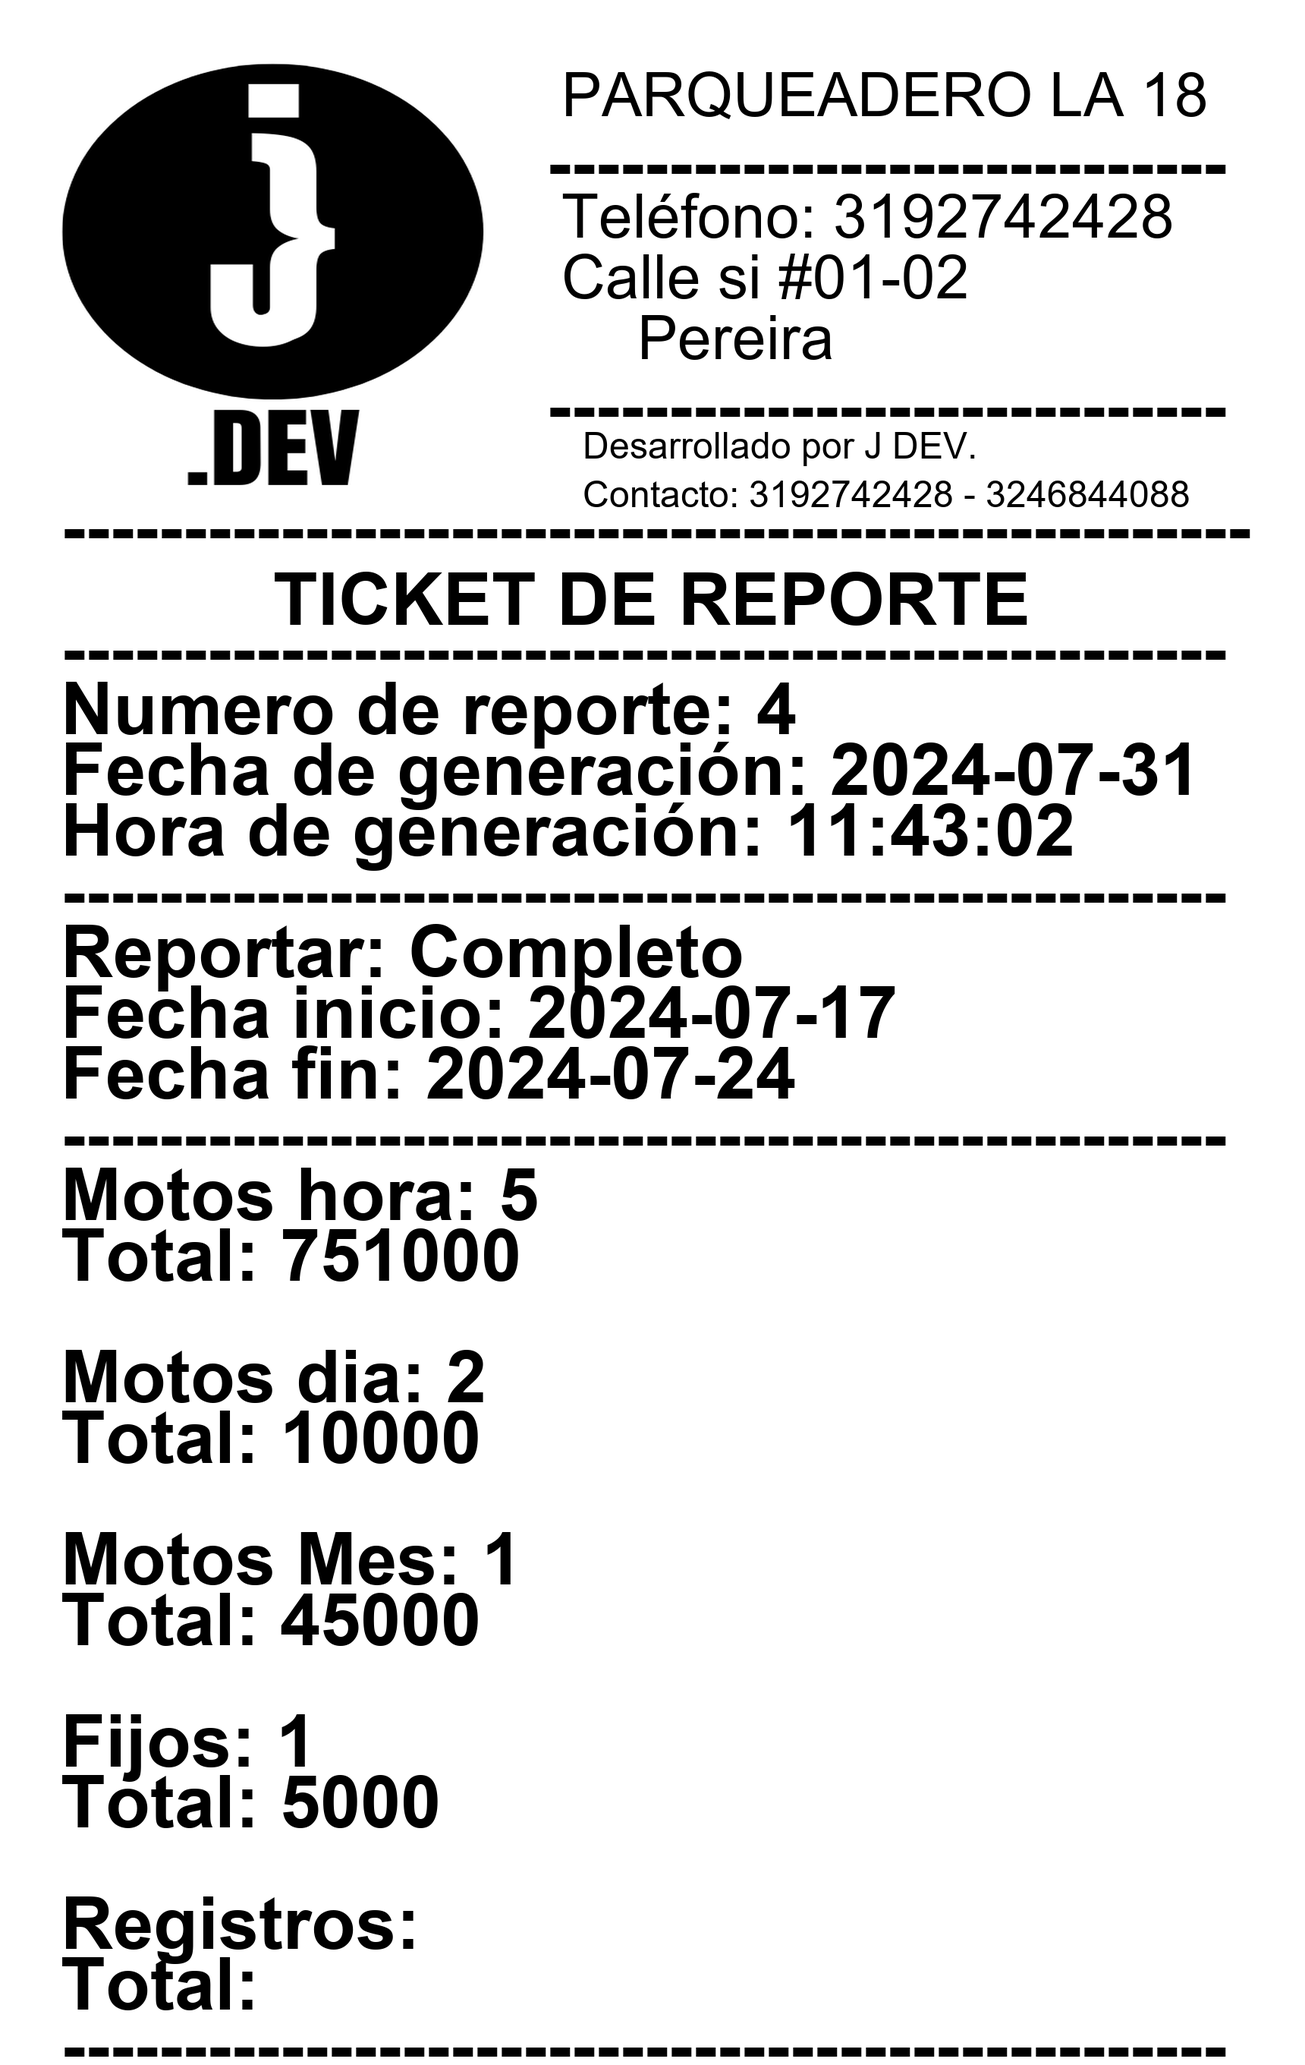
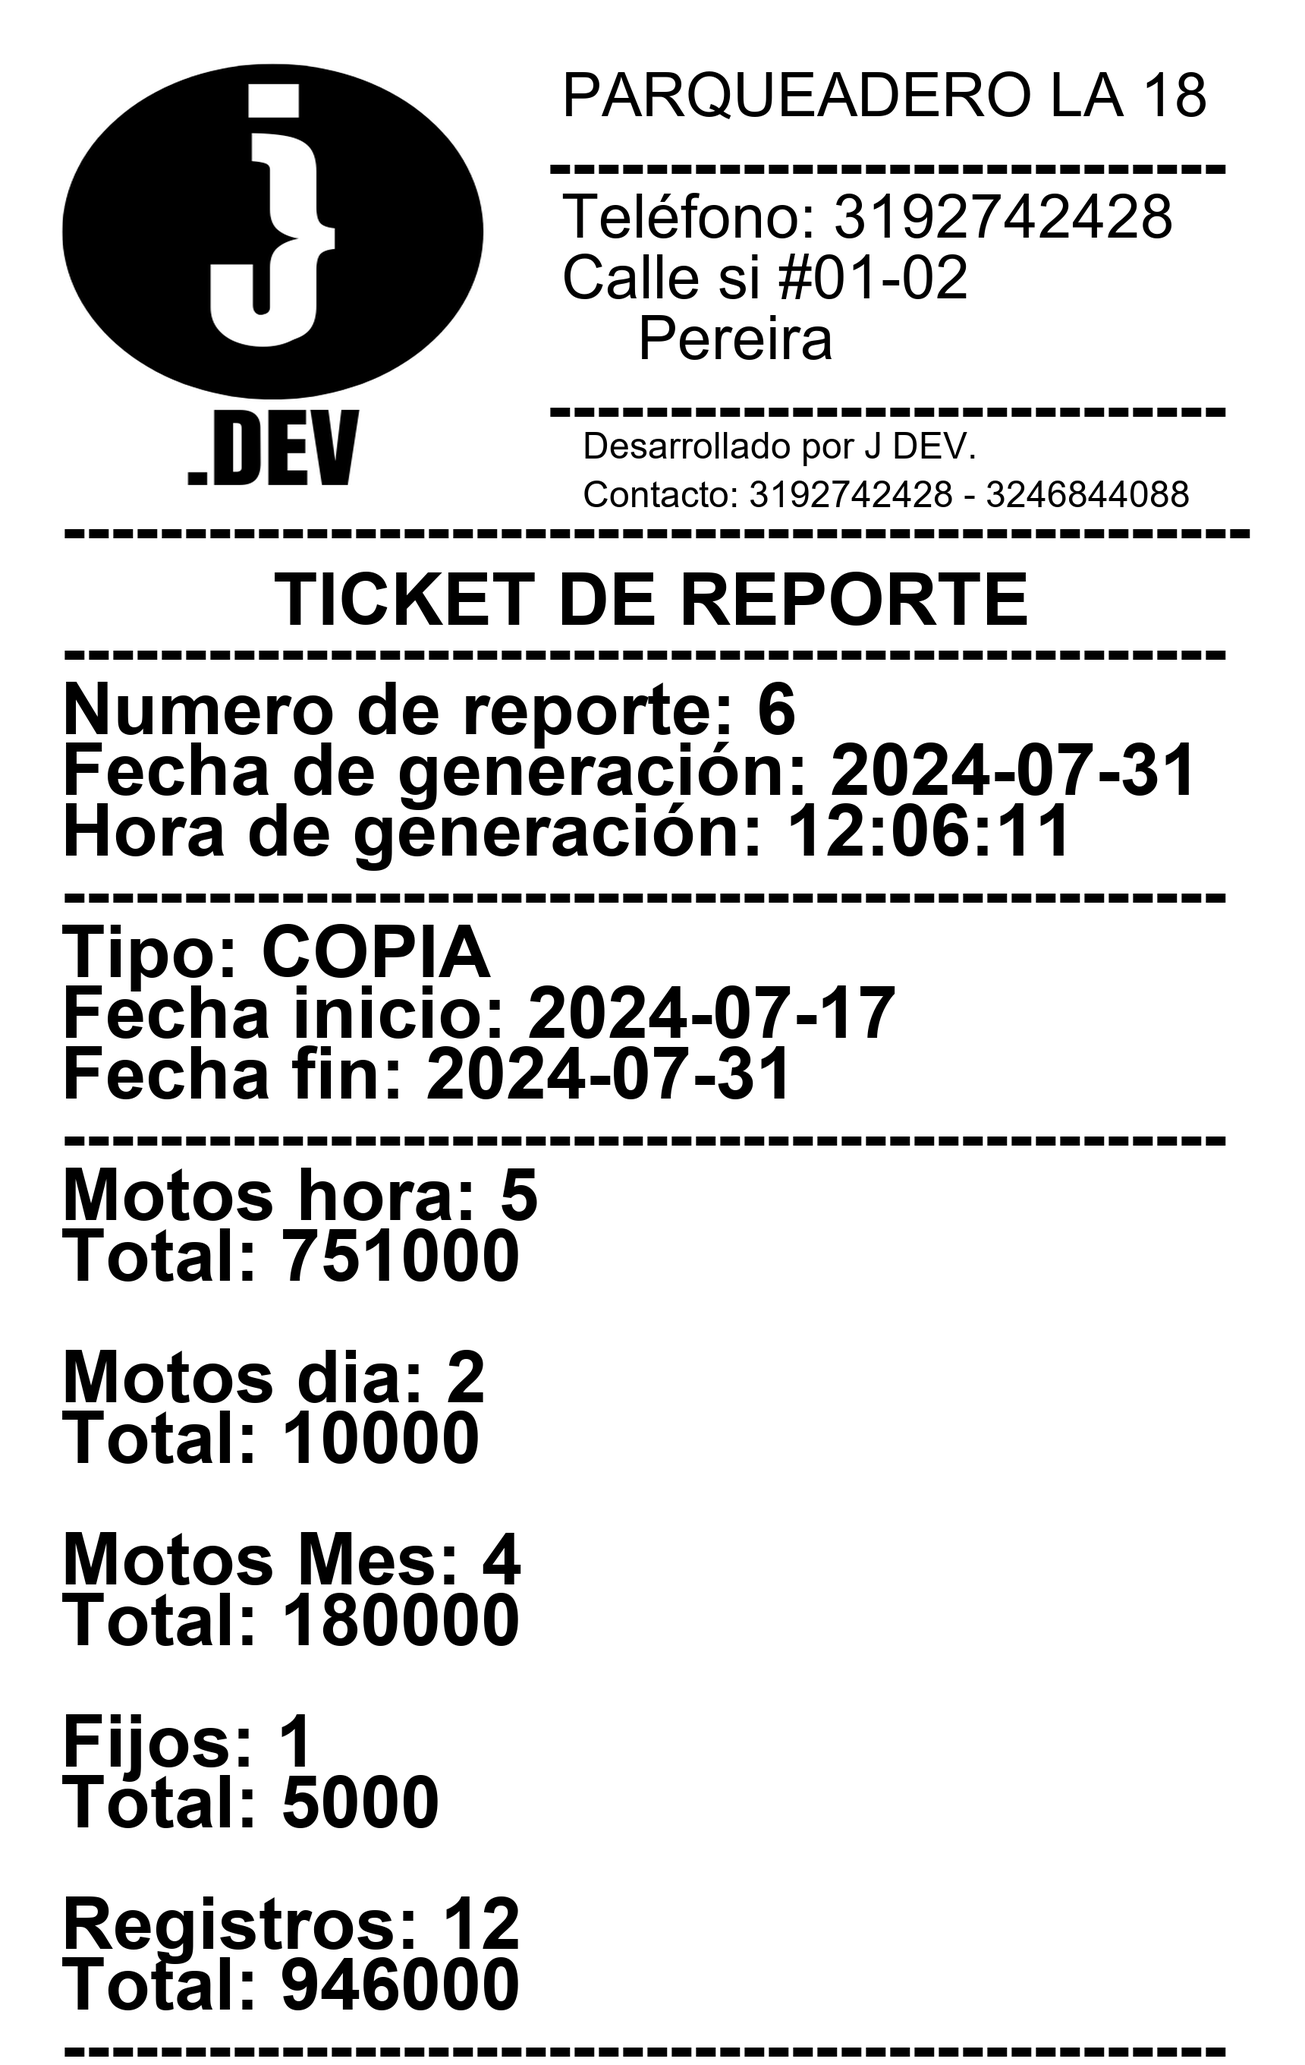
Se terminaron todas las funciones de la página reportes

diff --git a/pagina_Reportes.py b/pagina_Reportes.py
@@ -7,14 +7,17 @@ from PyQt5.QtWidgets import QApplication, QComboBox, QDateEdit, QGridLayout, QVB
 from PyQt5.QtCore import Qt
 from config import DB_CONFIG
 from DatabaseConnection import DatabaseConnection
+from TicketReporte import generarTicketReporteCompleto
 from datetime import datetime, date
+from PyQt5.QtCore import pyqtSignal
 class PaginaReportes(QWidget):
+    senalActualizarTablaReportes = pyqtSignal()
     def __init__(self, stacked_widget):
         super().__init__()
         self.stacked_widget = stacked_widget
         self.initUI()
 
-    def actualizarTablaRegistros(self,tabla_registros):
+    def actualizarTablaRegistros(self):
         # Crear la instancia de DatabaseConnection
         db_connection = DatabaseConnection.get_instance(DB_CONFIG)
         datosTablaRegistros = db_connection.cargarTableRegistros()
@@ -23,35 +26,59 @@ class PaginaReportes(QWidget):
             
             item_id = QTableWidgetItem(str(registro['id']))
             item_id.setTextAlignment(Qt.AlignCenter)
-            tabla_registros.setItem(row_idx, 0, item_id)
+            self.tabla_registros.setItem(row_idx, 0, item_id)
             
             item_Fecha = QTableWidgetItem(registro['Fecha'].strftime('%Y-%m-%d') if isinstance(registro['Fecha'], (datetime, date)) else str(registro['Fecha']))
             item_Fecha.setTextAlignment(Qt.AlignCenter)
-            tabla_registros.setItem(row_idx, 1, item_Fecha)
+            self.tabla_registros.setItem(row_idx, 1, item_Fecha)
             
             item_hora = QTableWidgetItem(str(registro.get('Hora')))
             item_hora.setTextAlignment(Qt.AlignCenter)
-            tabla_registros.setItem(row_idx, 2, item_hora)
+            self.tabla_registros.setItem(row_idx, 2, item_hora)
 
             item_Tipo = QTableWidgetItem(str(registro['Tipo']))
             item_Tipo.setTextAlignment(Qt.AlignCenter)
-            tabla_registros.setItem(row_idx, 3, item_Tipo)
+            self.tabla_registros.setItem(row_idx, 3, item_Tipo)
 
             item_FechaInicio = QTableWidgetItem(registro['fechaInicio'].strftime('%Y-%m-%d') if isinstance(registro['fechaInicio'], (datetime, date)) else str(registro['fechaInicio']))
             item_FechaInicio.setTextAlignment(Qt.AlignCenter)
-            tabla_registros.setItem(row_idx, 4, item_FechaInicio)
+            self.tabla_registros.setItem(row_idx, 4, item_FechaInicio)
 
             item_FechaFin = QTableWidgetItem(registro['fechaFin'].strftime('%Y-%m-%d') if isinstance(registro['fechaFin'], (datetime, date)) else str(registro['fechaFin']))
             item_FechaFin.setTextAlignment(Qt.AlignCenter)
-            tabla_registros.setItem(row_idx, 5, item_FechaFin)
+            self.tabla_registros.setItem(row_idx, 5, item_FechaFin)
 
-            item_Registros = QTableWidgetItem(str(registro['registrosMotosHora']))
-            item_Registros.setTextAlignment(Qt.AlignCenter)
-            tabla_registros.setItem(row_idx, 6, item_Registros)
+            item_RegistrosMotosHora = QTableWidgetItem(str(registro['registrosMotosHora']))
+            item_RegistrosMotosHora.setTextAlignment(Qt.AlignCenter)
+            self.tabla_registros.setItem(row_idx, 6, item_RegistrosMotosHora)
 
-            item_DineroTotal = QTableWidgetItem(str(registro['totalMotosHora']))
-            item_DineroTotal.setTextAlignment(Qt.AlignCenter)
-            tabla_registros.setItem(row_idx, 7, item_DineroTotal)
+            item_DineroTotalMotosHora = QTableWidgetItem(str(registro['totalMotosHora']))
+            item_DineroTotalMotosHora.setTextAlignment(Qt.AlignCenter)
+            self.tabla_registros.setItem(row_idx, 7, item_DineroTotalMotosHora)
+
+            item_RegistrosMotosDia = QTableWidgetItem(str(registro['registrosMotosDia']))
+            item_RegistrosMotosDia.setTextAlignment(Qt.AlignCenter)
+            self.tabla_registros.setItem(row_idx, 8, item_RegistrosMotosDia)
+
+            item_DineroTotalMotosDia = QTableWidgetItem(str(registro['totalMotosDia']))
+            item_DineroTotalMotosDia.setTextAlignment(Qt.AlignCenter)
+            self.tabla_registros.setItem(row_idx, 9, item_DineroTotalMotosDia)
+
+            item_RegistrosMotosMes = QTableWidgetItem(str(registro['registrosMotosMes']))
+            item_RegistrosMotosMes.setTextAlignment(Qt.AlignCenter)
+            self.tabla_registros.setItem(row_idx, 10, item_RegistrosMotosMes)
+
+            item_DineroTotalMotosMes = QTableWidgetItem(str(registro['totalMotosMes']))
+            item_DineroTotalMotosMes.setTextAlignment(Qt.AlignCenter)
+            self.tabla_registros.setItem(row_idx, 11, item_DineroTotalMotosMes)
+
+            item_RegistrosMotosFijos = QTableWidgetItem(str(registro['registrosFijos']))
+            item_RegistrosMotosFijos.setTextAlignment(Qt.AlignCenter)
+            self.tabla_registros.setItem(row_idx, 12, item_RegistrosMotosFijos)
+
+            item_DineroTotalMotosFijos = QTableWidgetItem(str(registro['totalFijos']))
+            item_DineroTotalMotosFijos.setTextAlignment(Qt.AlignCenter)
+            self.tabla_registros.setItem(row_idx, 13, item_DineroTotalMotosFijos)
 
     def initUI(self):
         # Crear la instancia de DatabaseConnection
@@ -78,78 +105,94 @@ class PaginaReportes(QWidget):
         layout_reportes.addWidget(titulo_tablaReportes, 1, 2, 1, 1, alignment= Qt.AlignCenter |Qt.AlignBottom)
         #Tabla
         self.tabla_registros = QTableWidget(self)
-        self.tabla_registros.setColumnCount(8)  # Definir el número de columnas
+        self.tabla_registros.setColumnCount(14)  # Definir el número de columnas
         self.tabla_registros.verticalHeader().setVisible(False)
         self.tabla_registros.setHorizontalHeaderLabels(
-            ['ID', 'Tipo', 'Desde','Hasta','Fecha generación','Hora generación','Registros','Total'])
+            ['ID', 'Fecha.G', 'Hora.G','Tipo','Fecha.I','Fecha.F','Reg.M.Hora','Total.M.Hora','Reg.M.Dia','Total.M.Dia','Reg.M.Mes','Total.M.Mes','Reg.F','Total.F'])
         self.tabla_registros.setStyleSheet("""
-                    QTableWidget {
-                        background-color: #222126;
-                        color: white;
-                        border: 1px solid #222126;
-                        alternate-background-color: #131216; /* Color de fila alternativa */
-                    }
+                  QTableWidget {
+                background-color: #222126;
+                color: white;
+                border: 1px solid #222126;
+                alternate-background-color: #131216; /* Color de fila alternativa */
+            }
 
-                    QTableWidget::item {
-                        background-color: #151419; /* Color de fondo de las celdas */
-                        border-color: #222126; /* Color del borde de las celdas */
-                    }
+            QTableWidget::item {
+                background-color: #151419; /* Color de fondo de las celdas */
+                border: 0px solid #222126; /* Color y ancho del borde de las celdas */
+            }
 
-                    QHeaderView::section {
-                        background-color: #151419; /* Color de fondo de las cabeceras de las columnas */
-                        color: white; /* Color del texto de las cabeceras de las columnas */
-                        border: none; /* Sin borde */
-                        padding: 4px; /* Ajuste del relleno */
-                    }
+            QTableWidget::item:hover {
+                background-color: #2a292e; /* Color de fondo al pasar el mouse sobre una celda */
+            }
 
-                    QHeaderView::section:hover {
-                        background-color: #151419; /* Color de fondo al pasar el mouse */
-                    }
+            QTableWidget::item:selected {
+                background-color: #3c3b40; /* Color de fondo al seleccionar una celda */
+                color: white; /* Color del texto de la celda seleccionada */
+            }
 
-                    QHeaderView::section:selected {
-                        background-color: #151419; /* Color de fondo al seleccionar */
-                    }
+            QHeaderView::section {
+                background-color: #151419; /* Color de fondo de las cabeceras de las columnas */
+                color: white; /* Color del texto de las cabeceras de las columnas */
+                border: none; /* Sin borde */
+                padding: 4px; /* Ajuste del relleno */
+            }
+
+            QHeaderView::section:hover {
+                background-color: #2a292e; /* Color de fondo al pasar el mouse */
+            }
+
+            QHeaderView::section:selected {
+                background-color: white; /* Color de fondo al seleccionar */
+                color: white; /* Color del texto de las cabeceras de las columnas */
+            }
+
+            QLineEdit {
+                color: white; /* Color del texto del QLineEdit durante la edición */
+            }
                 """)
+        header = self.tabla_registros.horizontalHeader()
         #seleccionar toda la fila
         self.tabla_registros.setSelectionBehavior(QAbstractItemView.SelectRows)
 
         header = self.tabla_registros.horizontalHeader()
         header.setSectionResizeMode(QHeaderView.Stretch)  # Estirar las columnas para ocupar el espacio
         header.setStretchLastSection(True)  # Estirar la última sección (última columna) para llenar el espacio restante
+        
+        #se configuran las propiedades de latabla, para que se seleccione toda la fila y no se permita editar
+        self.tabla_registros.setEditTriggers(QTableWidget.NoEditTriggers)
+        self.tabla_registros.setSelectionBehavior(QAbstractItemView.SelectRows)
         layout_reportes.addWidget(self.tabla_registros, 2, 0, 8, 5)
 
         # Rellenar la tabla
-        self.actualizarTablaRegistros(self.tabla_registros)
+        self.actualizarTablaRegistros()
         # Crea un boton para Reimprimir
         boton_reimprimir = QPushButton('Reimprimir')
         boton_reimprimir.setStyleSheet(
             "color: White; background-color: #222125; font-size: 30px; border-radius: 15px; padding: 15px 30px;")
         layout_reportes.addWidget(boton_reimprimir, 10, 4, 1, 1,
                                 alignment=Qt.AlignTop| Qt.AlignRight)
-        
+        boton_reimprimir.clicked.connect(lambda: [
+            generarTicketReporteCompleto(
+            self.tabla_registros.item(self.tabla_registros.currentRow(), 0).text(),
+            "COPIA",
+            self.tabla_registros.item(self.tabla_registros.currentRow(), 1).text(),
+            self.tabla_registros.item(self.tabla_registros.currentRow(), 2).text(),
+            self.tabla_registros.item(self.tabla_registros.currentRow(), 4).text(),
+            self.tabla_registros.item(self.tabla_registros.currentRow(), 5).text(),
+            self.tabla_registros.item(self.tabla_registros.currentRow(), 6).text(),
+            self.tabla_registros.item(self.tabla_registros.currentRow(), 7).text(),
+            self.tabla_registros.item(self.tabla_registros.currentRow(), 8).text(),
+            self.tabla_registros.item(self.tabla_registros.currentRow(), 9).text(),
+            self.tabla_registros.item(self.tabla_registros.currentRow(), 10).text(),
+            self.tabla_registros.item(self.tabla_registros.currentRow(), 11).text(),
+            self.tabla_registros.item(self.tabla_registros.currentRow(), 12).text(),
+            self.tabla_registros.item(self.tabla_registros.currentRow(), 13).text(),
+        ),
+        self.senalActualizarTablaReportes.emit()
+        ])
         
         #Formulario
-        # Crear el label "ID" y la textbox
-        label_id = QLabel('ID')
-        label_id.setStyleSheet("color: #FFFFFF;font-size: 40px;")
-        layout_reportes.addWidget(label_id, 2, 5, 1, 1, alignment=Qt.AlignTop | Qt.AlignRight)
-        # Text box ID
-        textbox_id = QLineEdit()
-        textbox_id.setStyleSheet("color: #FFFFFF; margin: 0; padding: 0; font-size: 30px;")
-        textbox_id.setFixedWidth(240)
-        layout_reportes.addWidget(textbox_id, 3, 5, 1, 2, alignment=Qt.AlignTop | Qt.AlignCenter)
-        textbox_id.setReadOnly(True)
-        # Crear el label "reportar" y la textbox
-        label_reportar = QLabel('Reportar')
-        label_reportar.setStyleSheet("color: #FFFFFF;font-size: 40px;")
-        layout_reportes.addWidget(label_reportar, 4, 5, 1, 2, alignment=Qt.AlignTop | Qt.AlignCenter)
-        # combobox box reportar
-        combobox_reportar= QComboBox()
-        combobox_reportar.addItems(['Todo', 'Hora', 'Dia', 'Mes'])
-        combobox_reportar.setFixedWidth(240)
-        combobox_reportar.setStyleSheet("color: #FFFFFF; margin: 0; padding: 0;font-size: 40px;")
-        layout_reportes.addWidget(combobox_reportar, 5, 5, 1, 2, alignment=Qt.AlignTop | Qt.AlignCenter)
-
         # Crear el label "Desde" y la textbox
         label_desde = QLabel('Desde')
         label_desde.setStyleSheet("color: #FFFFFF;font-size: 40px;")
@@ -196,7 +239,12 @@ class PaginaReportes(QWidget):
             db_connection.consultarReporte(
                 date_desde.text(),
                 date_hasta.text(),
+                "ORIGINAL"
         ),
+            date_desde.setMaximumDate(QDate.currentDate()),
+            date_hasta.setDate(QDate.currentDate()),
+            self.actualizarTablaRegistros()
+
         #self.senalActualizarTablaRegistroMotos.emit()
         ])
 

diff --git a/TicketReporte.py b/TicketReporte.py
@@ -52,7 +52,7 @@ def generarTicketReporteCompleto(codigo,Tipo,Fecha, Hora,FechaInicio, FechaFin,r
     d.text((80, 960), f"Fecha de generación: {Fecha}", font=font_bold, fill='black')
     d.text((80, 1040), f"Hora de generación: {Hora}", font=font_bold, fill='black')
     d.text((80, 1120), f"------------------------------------------------", font=font_bold, fill='black')
-    d.text((80, 1200), f"Reportar: {Tipo}", font=font_bold, fill='black')
+    d.text((80, 1200), f"Tipo: {Tipo}", font=font_bold, fill='black')
     d.text((80, 1280), f"Fecha inicio: {FechaInicio}", font=font_bold, fill='black')
     d.text((80, 1360), f"Fecha fin: {FechaFin}", font=font_bold, fill='black')
     d.text((80, 1440), f"------------------------------------------------", font=font_bold, fill='black')
@@ -68,8 +68,8 @@ def generarTicketReporteCompleto(codigo,Tipo,Fecha, Hora,FechaInicio, FechaFin,r
     d.text((80, 2240), f"Fijos: {registrosFijos}", font=font_bold, fill='black')
     d.text((80, 2320), f"Total: {dineroTotalFijos}", font=font_bold, fill='black')
 
-    d.text((80, 2480), f"Registros: ", font=font_bold, fill='black')
-    d.text((80, 2560), f"Total: ", font=font_bold, fill='black')
+    d.text((80, 2480), f"Registros: {int(registrosMotosHora)+int(registrosMotosDia)+int(registrosMotosMes)+int(registrosFijos)} ", font=font_bold, fill='black')
+    d.text((80, 2560), f"Total: {int(dineroTotalMotosHora)+int(dineroTotalMotosDia)+int(dineroTotalMotosMes)+int(dineroTotalFijos)}", font=font_bold, fill='black')
 
     d.text((80, 2640), f"------------------------------------------------", font=font_bold, fill='black')
     # Guardar la imagen en la ruta especificada

diff --git a/main.py b/main.py
@@ -140,6 +140,7 @@ class MiVentana(QWidget):
         self.pagina_casilleros.senalActualizarTextboxesTicketsRegistrosMotos.connect(self.pagina_tickets.actualizarTextboxCasilleros) # conectar señal para actualizar los textbox de casilleros de registrar botos
         self.pagina_tickets.senalActualizarTablaRegistroFijos.connect(self.pagina_registros.actualizarTablaFijos) #conectar señal para actualizar las tablas de Fijos
         self.pagina_tickets.senalActualizarTablaRegistroMensualidades.connect(self.pagina_registros.actualizarTablaMensualidades) #conectar señal para actualizar las tablas de Mensualidad
+        self.pagina_reportes.senalActualizarTablaReportes.connect(self.pagina_reportes.actualizarTablaRegistros)#conectar señal para actualizar las tablas de reportes
     def cambiar_color(self):
         sender = self.sender()
         sender.setStyleSheet("background-color: #222125; color: white; border: none; border-radius: 15px;font-size: 12px;text-align: left;padding-left: 10px;font-weight: bold;min-height: 60px;min-width: 200px;")
@@ -162,6 +163,7 @@ class MiVentana(QWidget):
             self.pagina_tickets.senalActualizarTablasCasilleros.emit()#Se actualizan las tablas de casilleros
             self.stacked_widget.setCurrentIndex(4)
         elif sender.text() == "Gestión de reportes":
+            self.pagina_reportes.senalActualizarTablaReportes.emit()#Se actualiza la tabla Reportes
             self.stacked_widget.setCurrentIndex(6)
         elif sender.text() == "Configuracion":
             self.stacked_widget.setCurrentIndex(8)

diff --git a/DatabaseConnection.py b/DatabaseConnection.py
@@ -329,7 +329,7 @@ class DatabaseConnection:
         params = (str(posicionCasillero+1),)
         self.execute_query(query, params)
 
-    def consultarReporte (self, fechaInicio,fechaFin):
+    def consultarReporte (self,fechaInicio,fechaFin,Tipo):
         #--------- Definir fechas de busqueda ------------
         params = (str (fechaInicio), str(fechaFin))
         #------------ Consulta dia ---------------
@@ -395,6 +395,6 @@ class DatabaseConnection:
         params = (fechaAcual,horaActual,"Completo",fechaInicio,fechaFin,registrosHora,totalHora,registrosDia,totalDia,registrosMes,totalMes,registrosFijos,totalFijos)
         self.execute_query(query, params)
         nuevo_id = self.obtenerUltimoRegistro()
-        generarTicketReporteCompleto(nuevo_id,"Completo",fechaAcual,horaActual,fechaInicio,fechaFin,registrosHora,totalHora,registrosDia,totalDia,registrosMes,totalMes,registrosFijos,totalFijos)
+        generarTicketReporteCompleto(nuevo_id,Tipo,fechaAcual,horaActual,fechaInicio,fechaFin,registrosHora,totalHora,registrosDia,totalDia,registrosMes,totalMes,registrosFijos,totalFijos)
             
         
